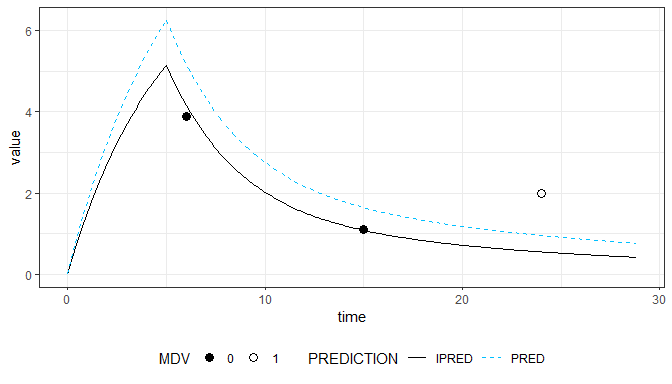
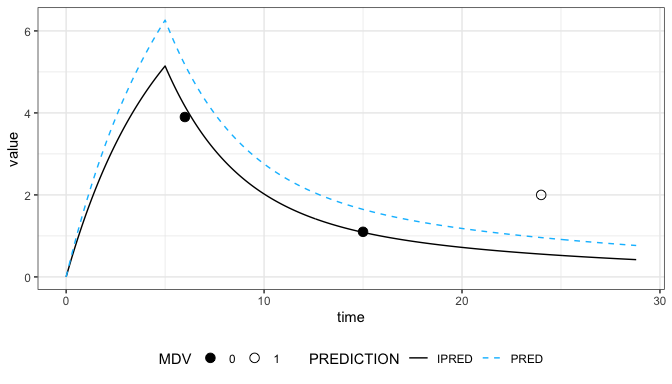
start gha

diff --git a/README.md b/README.md
@@ -8,6 +8,7 @@
 [![CRAN
 status](https://www.r-pkg.org/badges/version-last-release/mapbayr)](https://CRAN.R-project.org/package=mapbayr)
 [![](https://img.shields.io/badge/Citation-CPT:PSP-blue.svg)](https://pubmed.ncbi.nlm.nih.gov/34342170/)
+[![R-CMD-check](https://github.com/FelicienLL/mapbayr/actions/workflows/R-CMD-check.yaml/badge.svg)](https://github.com/FelicienLL/mapbayr/actions/workflows/R-CMD-check.yaml)
 <!-- badges: end -->
 
 mapbayr is a free and open source package for *maximum a posteriori*
@@ -359,12 +360,12 @@ assigned with \[OBS\] in `$CMT`. The order of the pair must respect the
 order in which compartments were assigned. To put it more clearly, the
 sigma matrix will be interpreted as such whatever the model :
 
-| N° in the SIGMA matrix diagonal |                      Associated error                      |
-|:-------------------------------:|:----------------------------------------------------------:|
-|                1                | Proportional on concentrations in the 1st cmt with \[OBS\] |
-|                2                |   Additive on concentrations in the 1st cmt with \[OBS\]   |
-|                3                | Proportional on concentrations in the 2nd cmt with \[OBS\] |
-|                4                |   Additive on concentrations in the 2nd cmt with \[OBS\]   |
+| N° in the SIGMA matrix diagonal | Associated error |
+|:--:|:--:|
+| 1 | Proportional on concentrations in the 1st cmt with \[OBS\] |
+| 2 | Additive on concentrations in the 1st cmt with \[OBS\] |
+| 3 | Proportional on concentrations in the 2nd cmt with \[OBS\] |
+| 4 | Additive on concentrations in the 2nd cmt with \[OBS\] |
 
 ``` c
 //example: correlated proportional error between parent and metabolite
